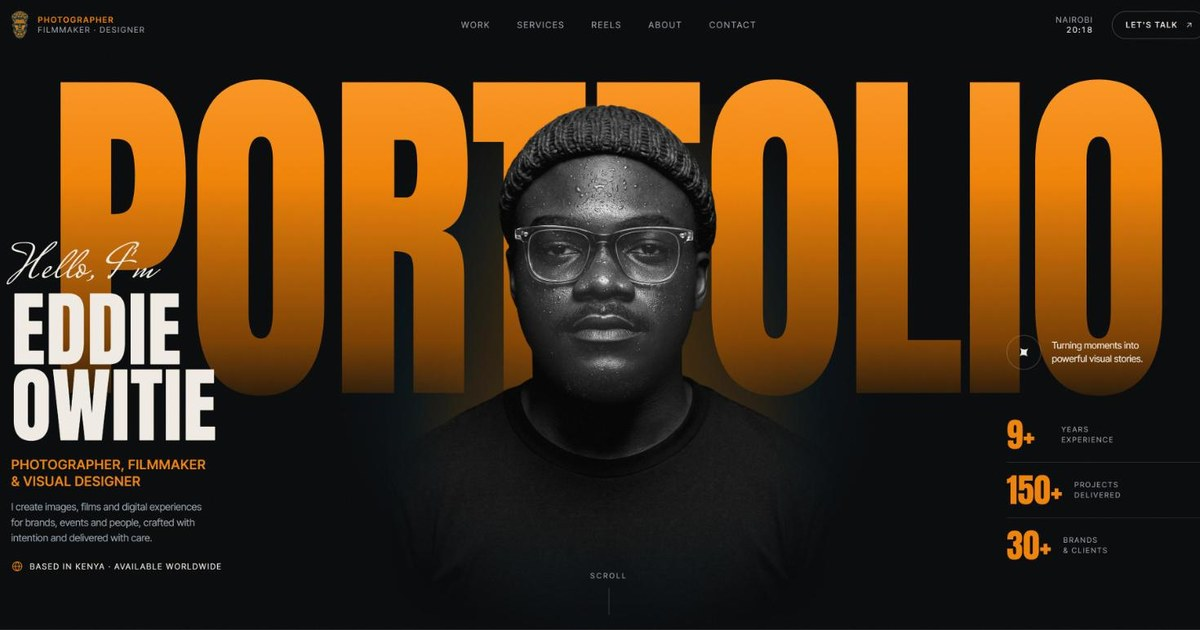
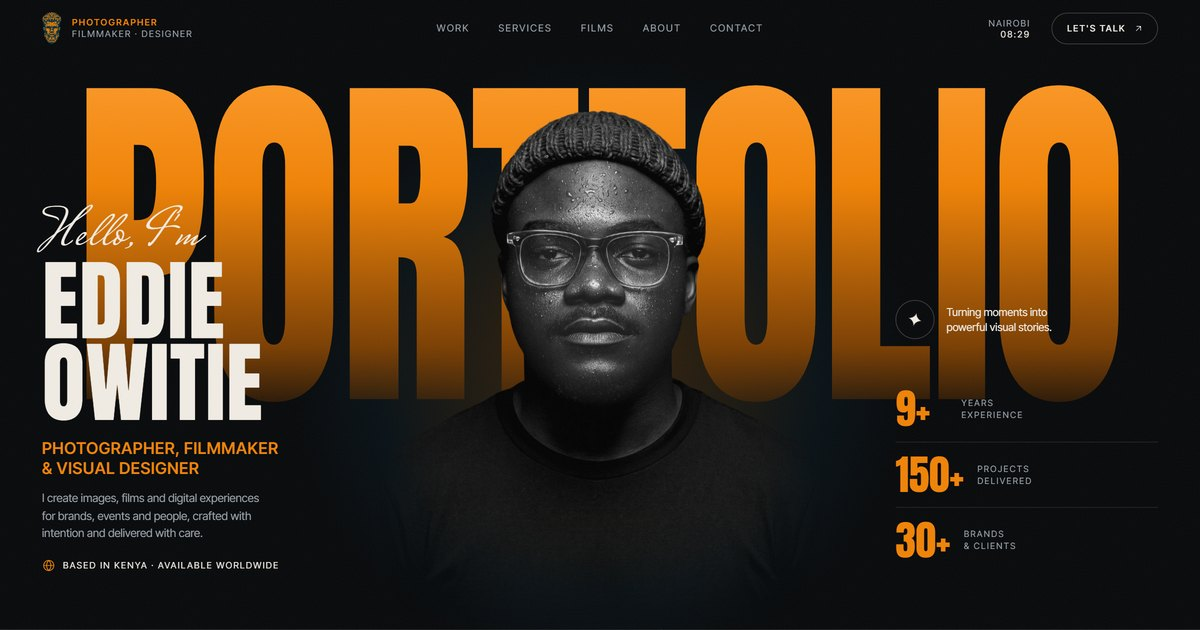
Per-page share images, complete Open Graph tags, sitemap and robots.txt
Each page now shares its own 1200x630 preview of its hero (public/img/og/), with og:url, site name, image size and alt text so WhatsApp and Facebook show the right card. Adds robots.txt and sitemap.xml for search engines.

diff --git a/index.html b/index.html
@@ -9,11 +9,17 @@
   <meta name="color-scheme" content="dark" />
 
   <meta property="og:type" content="website" />
+  <meta property="og:site_name" content="eddieVsuals · Eddie Owitie" />
+  <meta property="og:locale" content="en_GB" />
+  <meta property="og:image:type" content="image/jpeg" />
+  <meta property="og:image:width" content="1200" />
+  <meta property="og:image:height" content="630" />
+  <meta name="twitter:card" content="summary_large_image" />
   <meta property="og:url" content="https://eddieowitie.com/" />
   <meta property="og:title" content="Eddie Owitie — Photographer, Filmmaker &amp; Visual Designer" />
-  <meta property="og:description" content="Photography, videography, graphic design and web design for brands, events and people." />
-  <meta property="og:image" content="https://eddieowitie.com/img/og.jpg" />
-  <meta name="twitter:card" content="summary_large_image" />
+  <meta property="og:description" content="Photography, videography, graphic design and web design for brands, events and people. Based in Kenya, available worldwide." />
+  <meta property="og:image" content="https://eddieowitie.com/img/og/home.jpg" />
+  <meta property="og:image:alt" content="Eddie Owitie in front of the word PORTFOLIO on his website" />
 
   <link rel="icon" type="image/png" sizes="32x32" href="/brand/icon-32.png" />
   <link rel="apple-touch-icon" href="/brand/icon-180.png" />

diff --git a/services/web-development/index.html b/services/web-development/index.html
@@ -8,6 +8,9 @@
   <meta property="og:title" content="Web Development · eddieVsuals" />
   <meta property="og:description" content="Portfolio, business and landing-page websites, designed and built to be fast, responsive and quietly animated." />
   <link rel="canonical" href="https://eddieowitie.com/services/web-development/" />
+  <meta property="og:url" content="https://eddieowitie.com/services/web-development/" />
+  <meta property="og:image" content="https://eddieowitie.com/img/og/web-development.jpg" />
+  <meta property="og:image:alt" content="Web development by Eddie Owitie: portfolio, business and landing-page websites" />
 <!-- @include head.html -->
   <script type="module" src="/src/service.js"></script>
 </head>

diff --git a/partials/head.html b/partials/head.html
@@ -1,7 +1,11 @@
   <meta name="theme-color" content="#050709" />
   <meta name="color-scheme" content="dark" />
   <meta property="og:type" content="website" />
-  <meta property="og:image" content="https://eddieowitie.com/img/og.jpg" />
+  <meta property="og:site_name" content="eddieVsuals · Eddie Owitie" />
+  <meta property="og:locale" content="en_GB" />
+  <meta property="og:image:type" content="image/jpeg" />
+  <meta property="og:image:width" content="1200" />
+  <meta property="og:image:height" content="630" />
   <meta name="twitter:card" content="summary_large_image" />
   <link rel="icon" type="image/png" sizes="32x32" href="/brand/icon-32.png" />
   <link rel="apple-touch-icon" href="/brand/icon-180.png" />

diff --git a/services/graphic-design/index.html b/services/graphic-design/index.html
@@ -8,6 +8,9 @@
   <meta property="og:title" content="Graphic Design · eddieVsuals" />
   <meta property="og:description" content="Logos, brand identities, packaging, posters and print, designed to look sharp everywhere." />
   <link rel="canonical" href="https://eddieowitie.com/services/graphic-design/" />
+  <meta property="og:url" content="https://eddieowitie.com/services/graphic-design/" />
+  <meta property="og:image" content="https://eddieowitie.com/img/og/graphic-design.jpg" />
+  <meta property="og:image:alt" content="Graphic design by Eddie Owitie: logos, brand identity, packaging and posters" />
 <!-- @include head.html -->
   <script type="module" src="/src/service.js"></script>
 </head>

diff --git a/services/photography/index.html b/services/photography/index.html
@@ -8,6 +8,9 @@
   <meta property="og:title" content="Photography · eddieVsuals" />
   <meta property="og:description" content="Portraits, fashion, events and brand imagery, lit with intent and retouched to a premium finish." />
   <link rel="canonical" href="https://eddieowitie.com/services/photography/" />
+  <meta property="og:url" content="https://eddieowitie.com/services/photography/" />
+  <meta property="og:image" content="https://eddieowitie.com/img/og/photography.jpg" />
+  <meta property="og:image:alt" content="Photography by Eddie Owitie: portraits, fashion, events and brand shoots" />
 <!-- @include head.html -->
   <script type="module" src="/src/service.js"></script>
 </head>

diff --git a/services/index.html b/services/index.html
@@ -8,6 +8,9 @@
   <meta property="og:title" content="Services · eddieVsuals" />
   <meta property="og:description" content="Four crafts, one visual language: photography, videography, graphic design and web development." />
   <link rel="canonical" href="https://eddieowitie.com/services/" />
+  <meta property="og:url" content="https://eddieowitie.com/services/" />
+  <meta property="og:image" content="https://eddieowitie.com/img/og/services.jpg" />
+  <meta property="og:image:alt" content="The eddieVsuals services page: photography, videography, graphic design and web development" />
 <!-- @include head.html -->
   <script type="module" src="/src/service.js"></script>
 </head>

diff --git a/services/videography/index.html b/services/videography/index.html
@@ -8,6 +8,9 @@
   <meta property="og:title" content="Videography · eddieVsuals" />
   <meta property="og:description" content="Brand films, event recaps and reels, shot, cut and graded in-house." />
   <link rel="canonical" href="https://eddieowitie.com/services/videography/" />
+  <meta property="og:url" content="https://eddieowitie.com/services/videography/" />
+  <meta property="og:image" content="https://eddieowitie.com/img/og/videography.jpg" />
+  <meta property="og:image:alt" content="Videography by Eddie Owitie: brand films, event recaps and reels" />
 <!-- @include head.html -->
   <script type="module" src="/src/service.js"></script>
 </head>
